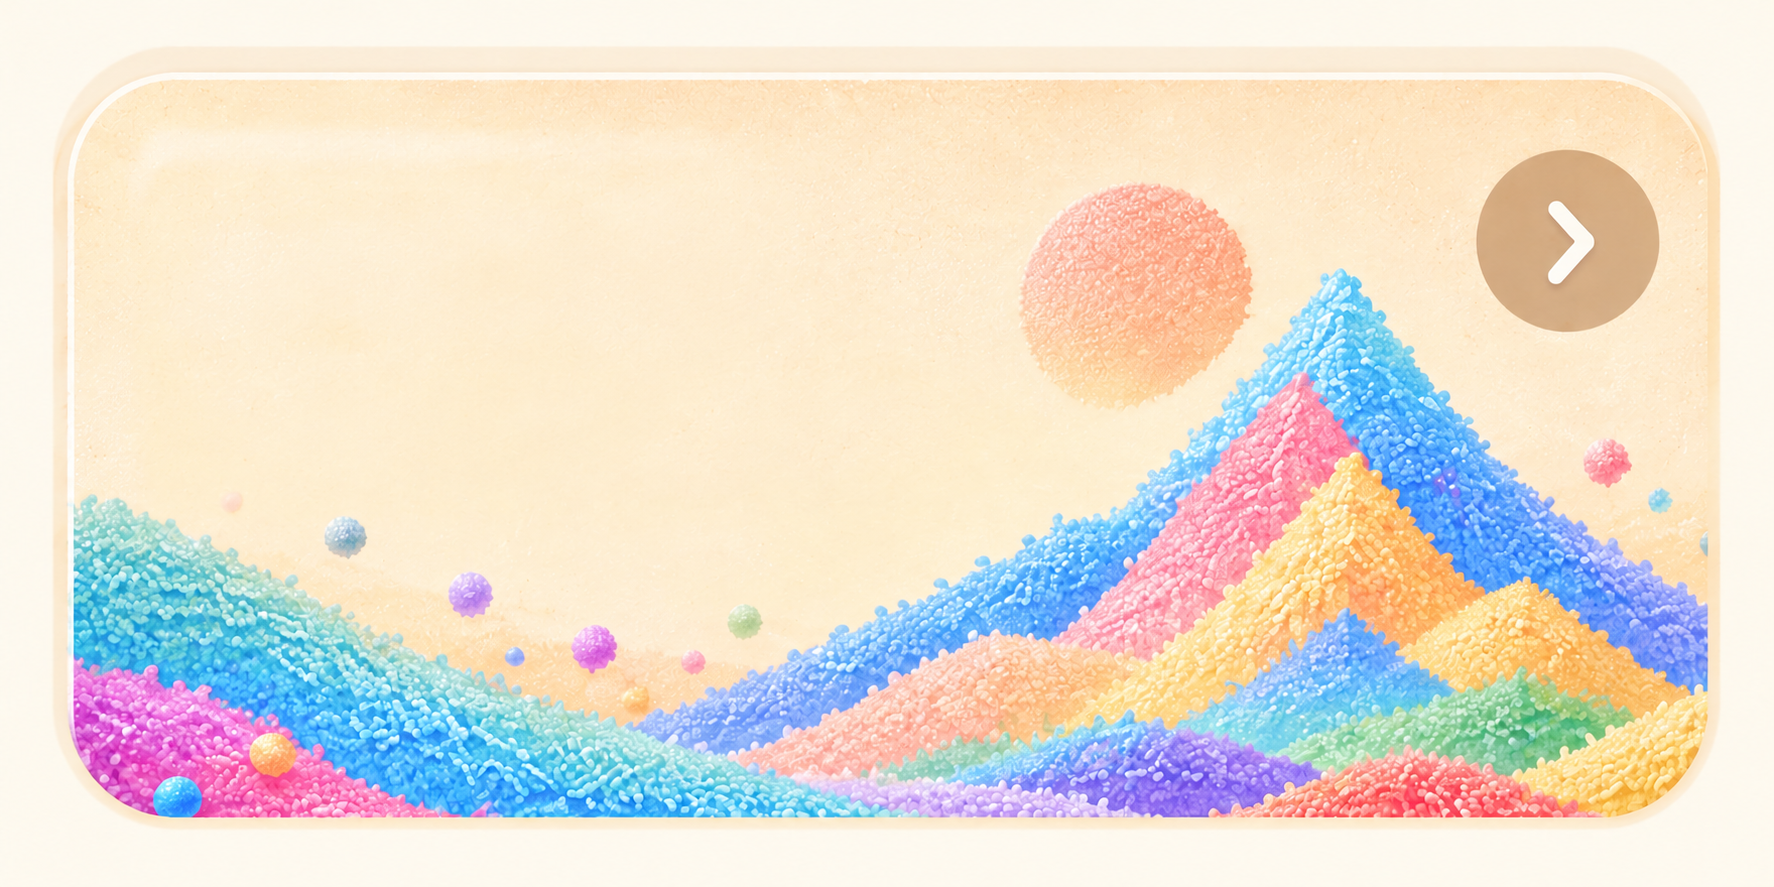
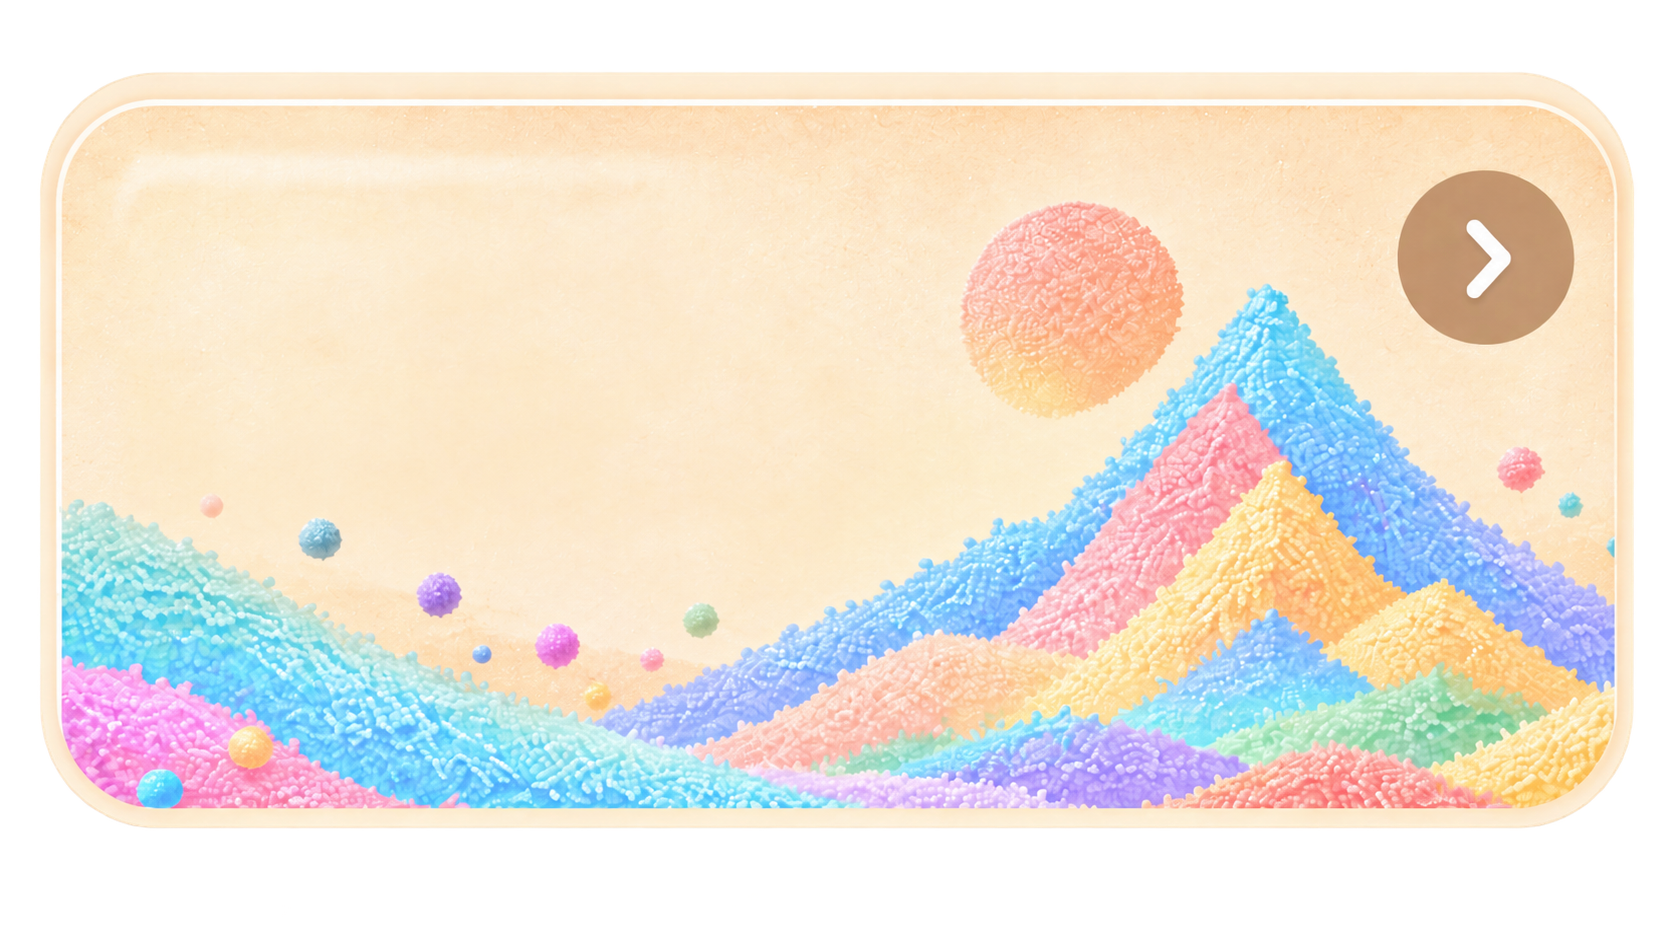
sync: transparent mode card artwork from source 4657455

diff --git a/src/ui/ApprovedAssetScreens.js b/src/ui/ApprovedAssetScreens.js
@@ -5,7 +5,7 @@
  */
 const STYLE_ID = 'caisha-approved-assets-20261011';
 const BASE = () => (import.meta.env?.BASE_URL || './') + 'images/approved-ui/';
-const img = filename => BASE() + filename;
+const img = filename => BASE() + filename + (/^mode-(challenge|endless|art)\.webp$/.test(filename) ? '?v=20261012-transparent' : '');
 
 export function ensureApprovedAssetScreens() {
   if (document.getElementById(STYLE_ID)) return;
@@ -142,7 +142,7 @@ export function ensureApprovedAssetScreens() {
   .caisha-mode-menu.approved-art-v1.is-main .caisha-mode-menu__item::after {display:none !important;content:none !important;}
   .caisha-mode-menu.approved-art-v1.is-main .approved-art__mode-frame {
     display:block;position:absolute;left:50%;top:50%;
-    width:min(100cqw,200cqh);aspect-ratio:2/1;transform:translate(-50%,-50%);
+    width:min(100cqw,177.683315cqh);aspect-ratio:1672/941;transform:translate(-50%,-50%);
     container-type:inline-size;pointer-events:none;
   }
   .caisha-mode-menu.approved-art-v1.is-main .approved-art__mode-picture {
